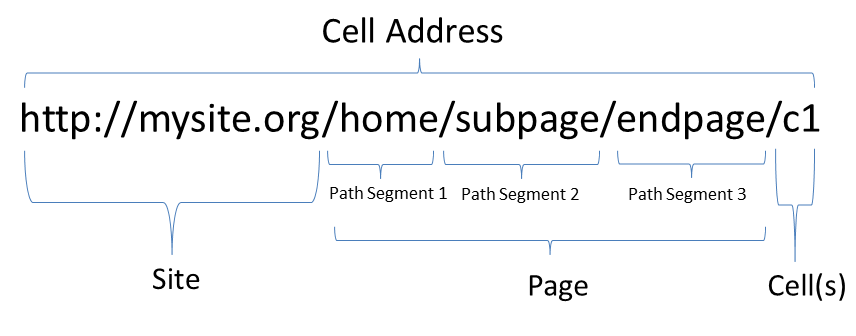
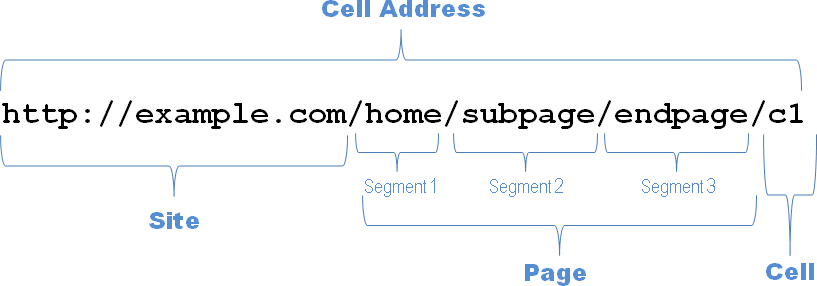
First run through of copy editing
A mixture of:
* to style
* text corrections/tidy up
* a coupla new illustrations

diff --git a/contents/hypernumbers-overview/hypernumbers-spreadsheet.rst b/contents/hypernumbers-overview/hypernumbers-spreadsheet.rst
@@ -2,9 +2,9 @@
 Hypernumbers Overview
 =====================
 
-Hypernumbers is a web technology that enables spreadsheet (and access) users to build web applications. No specialist programming expertise is required. Most of what you need to know to get started is what you already know from using your desktop spreadsheet. Hence our mantra:  
+Hypernumbers is a web technology that enables spreadsheet users to build web applications. No specialist programming expertise is required. Most of what you need to know to get started is what you already know from using your desktop spreadsheet. Hence our mantra:  
 
-if you can use a spreadsheet, you can build applications using hypernumbers
+.. centered:: *if you can use a spreadsheet, you can build applications using hypernumbers*
 
 In this introductory overview we will cover features of the spreadsheet that should already be familiar and briefly look at special features that are unique to hypernumbers. Special hypernumbers features will be covered in more detail in later sections of this book.
 
@@ -19,23 +19,23 @@ Hypernumbers spreadsheet pages look like your desktop spreadsheets and operate l
 
 Some of these familiar features and capabilities include:  
 
-*	You enter numbers and text into cells in the grid
-*	Cells have an address e.g. the relative address A1
+*	you enter numbers and text into cells in the grid
+*	cells have an address e.g. the relative address ``A1``
 
-	*	Or absolute ($A$1), row absolute ($A1) or column absolute (A$1)
-*	Cell ranges can be referenced e.g. A1:A10 (relative) or $A$1:$A$10 (absolute)
-*	You can enter functions and formulae e.g.  
+	*	Or absolute (``$A$1``), row absolute (``$A1``) or column absolute (``A$1``)
+*	cell ranges can be referenced e.g. ``A1:A10`` (relative) or ``$A$1:$A$10`` (absolute)
+*	you can enter functions and formulae e.g.  
 
-	*	=D3-D4
-	*	=(C7*D7)/E5  
-	*	=SUM(E6:E10)
-	*	=VLOOKUP(2, A1:D12, 3)   
-*	You can resize column widths and row heights
-*	You can merge and unmerge cell ranges
-*	You can insert and delete rows and columns   
-*	There is a formula bar in which to edit the contents of a cell or a formula
-*	There’s a formula wizard that helps you build functions   
-*	There’s a toolbar icon menu providing a quick way to change the layout and format of cells e.g. 
+	*	``=D3-D4``
+	*	``=(C7*D7)/E5``
+	*	``=SUM(E6:E10)``
+	*	``=VLOOKUP(2, A1:D12, 3)``   
+*	you can resize column widths and row heights
+*	you can merge and unmerge cell ranges
+*	you can insert and delete rows and columns   
+*	there is a formula bar in which to edit the contents of a cell or a formula
+*	there is a formula wizard that helps you build functions   
+*	there is a toolbar icon menu providing a quick way to change the layout and format of cells e.g. 
 
 	*	apply formats to cell contents  
 	*	change fonts and size  
@@ -45,8 +45,8 @@ Some of these familiar features and capabilities include:
 	*	apply word wrap
 	*	change the alignment of cell contents
 	*	etc..   
-*	You can have multiple pages opened at the same time as tabs and can move between them by clicking the tab
-*	You can access a further menu of features by right-clicking your mouse
+*	you can have multiple pages opened at the same time as tabs and can move between them by clicking the tab
+*	you can access a further menu of features by right-clicking your mouse
 
 So, if you already use a spreadsheet, such as Microsoft Excel, the grid layout will be very familiar and the way in which you build up your spreadsheet page should be relatively straightforward.
 
@@ -57,24 +57,22 @@ Some of these differences are introduced briefly below and will be covered in mo
 Anatomy of a Hypernumbers Page/Cell Address
 -------------------------------------------
 
-Every hypernumbers page and cell has its’ own unique web address or uniform resource locator (URL); made up of the website name, page name and cell reference (cell range), as shown in the figure below:
-
+Every hypernumbers page and cell has its own unique web address or uniform resource locator (URL); made up of the website name, page name and cell reference (cell range), as shown in the figure below:
 
 .. figure:: /images/anatomy-of-page-cell-address.png
    :scale: 100 %
    :alt: Anatomy of a Hypernumbers Address
 
-
-In this example, home, subpage and endpage are path segments that combine to identify the  location of the page as /home/subpage/endpage/ on the site mysite.org.
+In this example, home, subpage and endpage are path segments that combine to identify the  location of the page as /home/subpage/endpage/ on the site example.com.
 
 In this illustration:  
 
-*	http://mysite.org/home/ 
-*	http://mysite.org/home/subpage/
+*	http://example.com/home/ 
+*	http://example.com/home/subpage/
 
 are also valid pages on this (hypothetical) site.
 
-This is clearly different from how file-based spreadsheet applications are organised. in desktop workbooks and other web spreadsheet systems. Just as you arrange files in folders on your PC (so that there is some meaningful order and structure that makes them easier to find) so you can organise spreadsheet pages in hypernumbers around a meaningful structure that has some contextual relevance to their content.
+This is clearly different from how file-based spreadsheet applications are organised - and also how other web spreadsheet systems are structured. Just as you arrange files in folders on your PC (so that there is some meaningful order and structure that makes them easier to find) so you can organise spreadsheet pages in hypernumbers around a meaningful structure that has some contextual relevance to their content.
 
 It means that pages can be organised into contextually relevant structures and hierarchies that relate to organisational management structures, calculation logic and easy-to-navigate user interfaces (UIs) in business applications. 
 
@@ -85,9 +83,9 @@ An understanding of the page and segment nomenclature may seem strange at this p
 
    This means that all three pages listed below are regarded as separate pages:
 
-   *	http://mysite.org/home/sub-page/ 
-   *	http://mysite.org/home/Sub-page/ 
-   *	http://mysite.org/home/Sub-pagE/
+   *	http://example.com/home/sub-page/ 
+   *	http://example.com/home/Sub-page/ 
+   *	http://example.com/home/Sub-pagE/
 
    To avoid confusion when building pages we recommend using lower case page addresses.
  
@@ -102,33 +100,32 @@ Valid segment names can use a combination of:
 Referencing Hypernumbers Cells
 ------------------------------
 
-Referencing cells in a spreadsheet from the same spreadsheet works as your desktop spreadsheet e.g. =a1, =sum(a1:a4).
+Referencing cells in a spreadsheet from the same spreadsheet works as your desktop spreadsheet e.g. ``=a1``, ``=sum(a1:a4)``.
 
 Referencing cells from another spreadsheet page requires the use of the relevant page (combination of path segments) and cell reference e.g. using the absolute path reference:
 
-=/home/subpage/endpage/c1
+``=/home/subpage/endpage/c1``
 
-Suppose we wish to construct a calculation on the page /home/ that is the sum of the cell range A1:A4 on the page /home/subpage/endpage/. Either one of these expressions could be used:
-*	=sum(/home/subpage/endpage/a1:a4) 
-*	=sum(./subpage/endpage/a1:a4)
+Suppose we wish to construct a calculation on the page ``/home/`` that is the sum of the cell range ``A1:A4`` on the page ``/home/subpage/endpage/``. Either one of these expressions could be used:
 
-The ./ is a relative reference and means move the next segment below subpage, then endgame and calculate the sum on cells a1:a4.
+*	``=sum(/home/subpage/endpage/a1:a4)`` 
+*	``=sum(./subpage/endpage/a1:a4)``
 
-Relative references can also be used to move backwards along page segments to reference cells in a parent page using ../.  Suppose, we wish place a calculation in the /home/subpage/endpage/ that is the average of cells b1:b10 on the /home/ page. 
+The ``./`` is a relative reference and means move the next segment below - i.e. to ``subpage``, then onto ``endpage`` and calculate the sum on cells ``a1:a4``.
+
+Relative references can also be used to move backwards along page segments to reference cells in a parent page using ``../``.  Suppose, we wish place a calculation in the ``/home/subpage/endpage/`` that is the average of cells ``b1:b10`` on the ``/home/`` page. 
 
 Either one these formulae would return the same result:
-•	=sum(/home/b1:b10)
-•	=sum(../../b1:b10)
-
+•	``=sum(/home/b1:b10)``
+•	``=sum(../../b1:b10)``
 
 .. note:: You do NOT include the site address when referencing a cell when the cell is referenced from another address on the same site.
 
-
 .. note:: As hypernumber page addresses are case sensitive, all three of these cell addresses refer to cells on different pages:
 
-   *	/home/sub-page/c1 
-   *	/home/Sub-page/c1 
-   *	/home/Sub-pagE/c1
+   *	``/home/sub-page/c1``
+   *	``/home/Sub-page/c1``
+   *	``/home/Sub-pagE/c1``
 
 
 Saving Changes
@@ -140,25 +137,25 @@ Unlike desktop spreadsheets, you don’t have to save changes you make to a hype
 Functions
 ---------
 
-Many of the standard functions you might already be familiar with using in your desktop spreadsheet e.g. IF, SUM, COUNT, VLOOKUP etc. are implemented in hypernumbers.
+Many of the standard functions you might already be familiar with using in your desktop spreadsheet e.g. ``IF``, ``SUM``, ``COUNT``, ``VLOOKUP`` etc. are implemented in hypernumbers.
 
 There are also many special hypernumbers functions available that can be used to build dynamic web applications. 
 
 These fall under the categories of:
 
-*	Layout and display functions
-*	Navigation functions
-*	Graphing functions
-*	Social integration functions
-*	Web functions
-*	Template control functions
-*	Z-order query functions
-*	Calculation functions (new don’t calculate function tbd)
+*	layout and display functions
+*	navigation functions
+*	graphing functions
+*	social and web integration functions
+*	web functions
+*	template control functions
+*	database (or Z-order query) functions
+*	calculation functions (new don’t calculate function tbd)
 
 
-Some examples include the ``=link`` function which allows you to easily create a hyperlink inside a cell on a spreadsheet page. Another is the ``=google.map`` which allows you to embed interactive Google maps inside a cell range in a spreadsheet page. Or you might want to enable users to post facebook comments in your application using the ``=facebook.comments`` function. 
+Some examples include the ``=link(...)`` function which allows you to easily create a hyperlink inside a cell on a spreadsheet page. Another is the ``=google.map(...)`` which allows you to embed interactive Google maps inside a cell range in a spreadsheet page. Or you might want to enable users to post facebook comments in your application using the ``=facebook.comments(...)`` function. 
 
-In hypertnumbers graphs are created using functions. An example is the ``=histogram.WxH`` graph function which would be used to create a barchart – where the WxH specifies the number of columns and rows to use to display the graph. You can see an example of this in the hypernumbers spreadsheet diagram earlier.
+In hypertnumbers graphs are created using functions. An example is the ``=histogram.WxH(...)`` graph function which would be used to create a barchart – where the ``WxH`` specifies the number of columns and rows to use to display the graph. You can see an example of this in the hypernumbers spreadsheet diagram earlier.
 
 You can also see, in the same diagram, an examples of a z-order (or database query) used inside a function e.g. ``=sum(./[true]/d3)``. Z-order functions are discussed in the chapter on database queries.
   
@@ -170,17 +167,17 @@ Site Administration
   
 On the toolbar there is a site menu. This provides some basic site and page administration capabilities. It allows users to:
 
-*	Navigate through the spreadsheet page structure
-*	Open existing pages as spreadsheet views      
-*	Create new and delete existing spreadsheet pages  
-*	Save a hypernumbers page as a template with a particular view type
-*	Create new pages using a saved template
-*	Import desktop spreadsheets into hypernumbers
-*	Change user’s sign-on passwords 
+*	navigate through the spreadsheet page structure
+*	open existing pages as spreadsheet views      
+*	create new and delete existing spreadsheet pages  
+*	save a hypernumbers page as a template with a particular view type
+*	create new pages using a saved template
+*	import desktop spreadsheets into hypernumbers
+*	change their passwords 
 
-
-PICTURE
-
+.. figure:: /images/site-dialog-box.png
+   :scale: 100 %
+   :alt: The Site Dialog Box
 
 
 Views Menu
@@ -204,47 +201,29 @@ The views menu is located on the right-hand side of the toolbar (in the spreadsh
 The views menu is used to control user access to a site or application. Specifically, it allows whoever is responsible for an application to: 
 
 *	set the default view for the spreadsheet page 
-*	set the page to be available to the public or private and, if private, who (i.e. groups and users) specifically can have access to the page
+*	set the page to be available to the public (available to anyone on the internet) or private and, if private, who (i.e. which groups and users) specifically can have access to the page
 *	set up user groups and users
-*	Invite users to pages. 
+*	invite users to pages. 
 
 Right-Click Menu
 ----------------
 
 When you highlight a cell or range of cells and use the right-click mouse button, a further menu appears with some additional page functions. These include:
 
-*	Copy and paste
-*	Merge cells
-*	Insert cells into a page
-*	Delete cells in a page
-*	Create forms
-*	View cell change history 
+*	copy and paste
+*	merge cells
+*	insert cells into a page
+*	delete cells in a page
+*	create forms
+*	view cell change history 
 
 The latter two menu options are very useful and are covered in later sections.
-
-Language Support
-----------------
-
-Hypernumbers supports 8 language versions of the function names that are available for use in the spreadsheet, including:  
-
-*	English  
-*	French  
-*	Russian  
-*	Spanish  
-*	German  
-*	Portuguese  
-*	Italian  
-*	Brazilian  
-
-You can use the language selector in the top right section of the spreadsheet page to toggle function names and menu labels to your chosen language. 
-  
-Note: Non English language support is currently disabled.
 
  
 Browser Support
 ---------------
   
-You can view all web pages created by hypernumbers and tiny in the major internet browsers. However the ability to build web pages in the spreadsheet view is only supported or fully compatible as follows:   
+You can view all web pages created by hypernumbers in the major internet browsers. However the ability to build web pages in the spreadsheet view is only supported or fully compatible as follows:   
 
 ==================	==========================	=============================
 Browser	                Spreadsheet Compatibility	Web/Wiki/Table Compatibility
@@ -255,4 +234,3 @@ Firefox 	        fully compatible  	        fully compatible
 Internet Explorer 	not compatible  	        fully compatible  
 Opera 	                not compatible  	        fully compatible  
 ==================      ==========================      =============================
-
